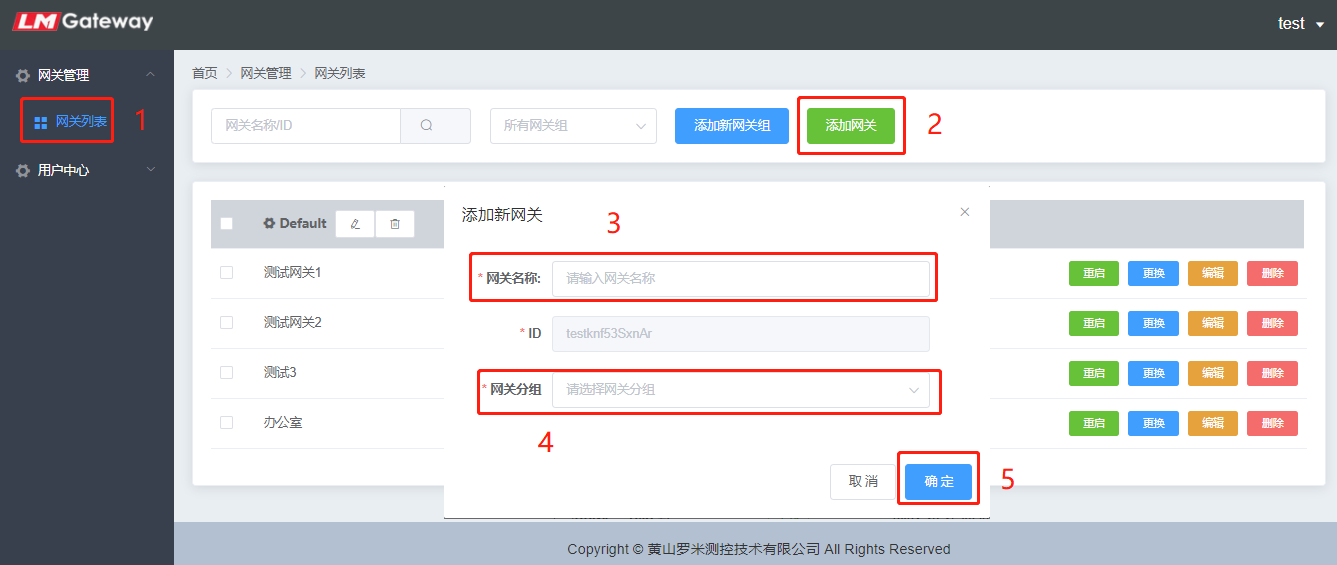
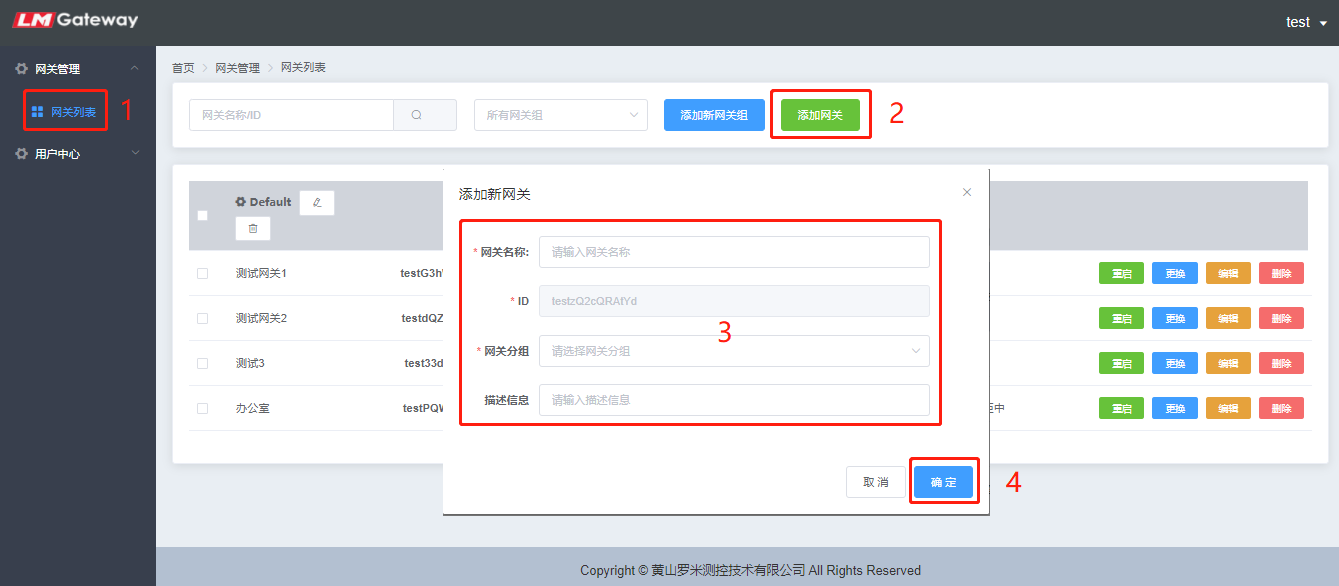
更新图片

diff --git a/ch2/ch2-5.md b/ch2/ch2-5.md
@@ -10,7 +10,7 @@
 
 ![网关管理平台登陆](assets/网关管理平台登陆.png)
 
-2.在“网关管理”-->”网关列表“菜单中点击”添加网关“按钮，在弹出的窗口中设置好”网关名称“和“网关分组”，点“确定”按钮。
+2.在“网关管理”-->”网关列表“菜单中点击”添加网关“按钮，在弹出的窗口中设置好”网关名称“、“网关分组”和“描述信息”，点“确定”按钮。
 
 ![添加网关](assets/添加网关.png)
 
